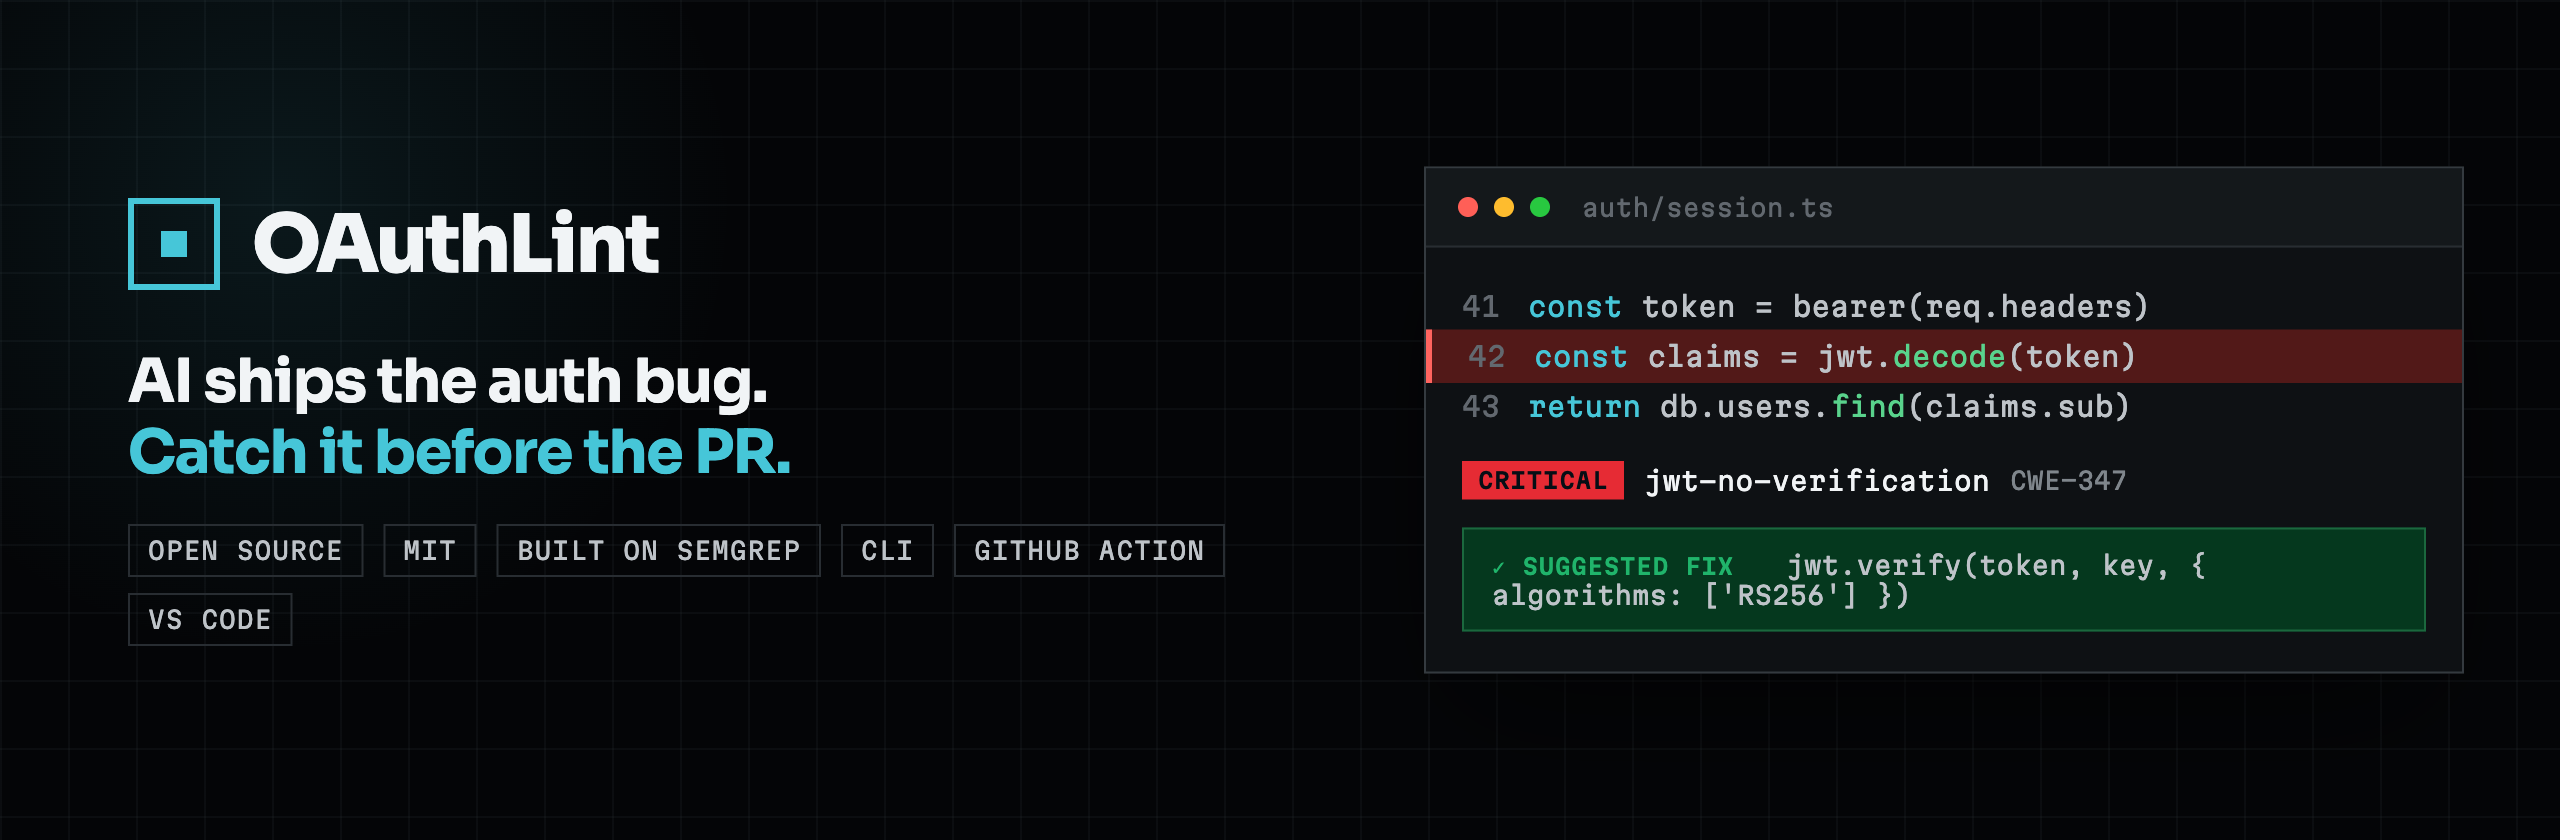
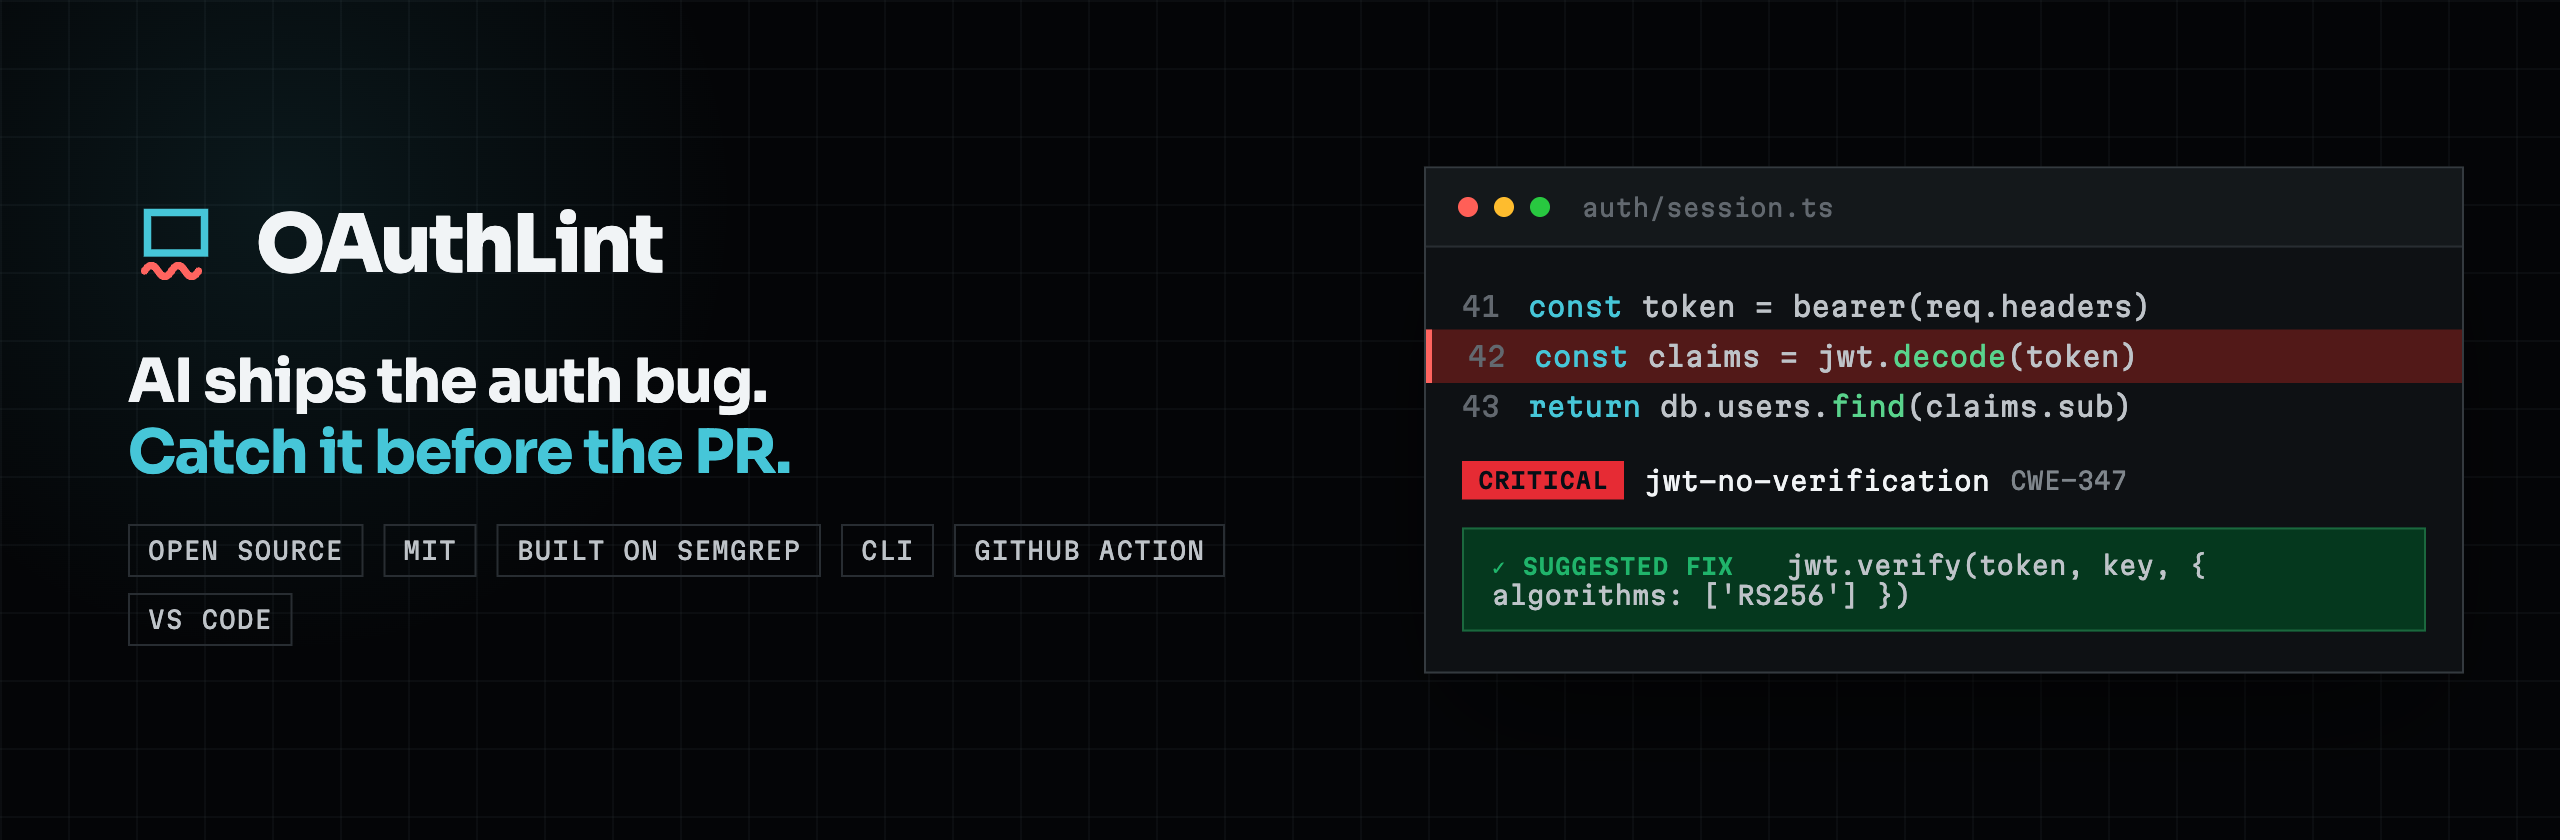
feat(brand): adopt the "lint squiggle" mark everywhere (#16)
New logo direction (chosen over the viewfinder square): a token box with the red
wavy underline — the universal sign of a linter flagging code. Distinctive and
grounded in what the tool does; the red also ties to the severity language.

- New mark in the site nav + footers (SiteChrome + all captured partials), as
  inline SVG using --ol-accent + --ol-sev-critical so it flips with the theme.
- Regenerated brand assets with the squiggle: logo.svg, README banner.png,
  avatar.png (GitHub avatar), favicon.png.

Build 96 pages, 30 tests, lint clean. Mark verified in nav (dark + light).

Claude-Session: https://claude.ai/code/session_01HWcbA9Y53p4uGj5cPmmAvM

Changed region(s): [[0.0312, 0.2167, 0.25, 0.3714]]

diff --git a/site/src/html/index.html b/site/src/html/index.html
@@ -3,7 +3,7 @@
   
   <nav style="position: sticky; top: 0px; z-index: 50; display: flex; align-items: center; gap: var(--ol-space-6); padding: 0 var(--ol-space-6); height: 56px; background: color-mix(in oklch, var(--ol-canvas) 88%, transparent); backdrop-filter: blur(12px); border-bottom: 1px solid var(--ol-border);">
     <a href="/" aria-label="OAuthLint home" style="display: flex; align-items: center; gap: 10px; text-decoration: none; color: var(--ol-text);">
-      <div style="width: 24px; height: 24px; border: 1.5px solid var(--ol-accent); display: grid; place-items: center;"><div style="width: 6px; height: 6px; background: var(--ol-accent);"></div></div>
+      <svg width="24" height="24" viewBox="0 0 64 64" fill="none" aria-hidden="true"><rect x="13" y="11" width="38" height="27" stroke="var(--ol-accent)" stroke-width="5"/><path d="M11 50c3-5 6-5 9 0s6 5 9 0 6-5 9 0 6 5 9 0" stroke="var(--ol-sev-critical)" stroke-width="5" stroke-linecap="round"/></svg>
       <span style="font-family: var(--ol-font-display); font-weight: 700; font-size: 16px; letter-spacing: -0.02em;">OAuthLint</span>
     </a>
     <div style="flex: 1 1 0%;"></div>
@@ -462,7 +462,7 @@
     <div style="max-width: 1180px; margin: 0px auto; padding: var(--ol-space-12) var(--ol-space-6); display: flex; flex-wrap: wrap; gap: var(--ol-space-8); align-items: flex-start;">
       <div style="flex: 1 1 0%; min-width: 240px;">
         <div style="display: flex; align-items: center; gap: 10px; margin-bottom: var(--ol-space-3);">
-          <div style="width: 22px; height: 22px; border: 1.5px solid var(--ol-accent); display: grid; place-items: center;"><div style="width: 5px; height: 5px; background: var(--ol-accent);"></div></div>
+          <svg width="22" height="22" viewBox="0 0 64 64" fill="none" aria-hidden="true"><rect x="13" y="11" width="38" height="27" stroke="var(--ol-accent)" stroke-width="5"/><path d="M11 50c3-5 6-5 9 0s6 5 9 0 6-5 9 0 6 5 9 0" stroke="var(--ol-sev-critical)" stroke-width="5" stroke-linecap="round"/></svg>
           <span style="font-family: var(--ol-font-display); font-weight: 700; font-size: 16px;">OAuthLint</span>
         </div>
         <p style="font-size: var(--ol-text-body-s); color: var(--ol-text-muted); line-height: 1.6; margin: 0px; max-width: 38ch;">Catch the auth bugs AI assistants ship. Built by identity &amp; security engineers. Open source, MIT-licensed, obsessively low-noise.</p>

diff --git a/site/src/html/about.html b/site/src/html/about.html
@@ -2,7 +2,7 @@
 
   <nav style="position:sticky; top:0; z-index:50; display:flex; align-items:center; gap:var(--ol-space-6); padding:0 var(--ol-space-6); height:56px; background:color-mix(in oklch, var(--ol-canvas) 88%, transparent); backdrop-filter:blur(12px); border-bottom:1px solid var(--ol-border);">
     <a href="/" style="display:flex; align-items:center; gap:10px; text-decoration:none; color:var(--ol-text);" aria-label="OAuthLint home">
-      <div style="width:24px; height:24px; border:1.5px solid var(--ol-accent); display:grid; place-items:center;"><div style="width:6px; height:6px; background:var(--ol-accent);"></div></div>
+      <svg width="24" height="24" viewBox="0 0 64 64" fill="none" aria-hidden="true"><rect x="13" y="11" width="38" height="27" stroke="var(--ol-accent)" stroke-width="5"/><path d="M11 50c3-5 6-5 9 0s6 5 9 0 6-5 9 0 6 5 9 0" stroke="var(--ol-sev-critical)" stroke-width="5" stroke-linecap="round"/></svg>
       <span style="font-family:var(--ol-font-display); font-weight:700; font-size: 16px; letter-spacing:-0.02em;">OAuthLint</span>
     </a>
     <div style="flex:1;"></div>

diff --git a/site/src/html/docs.html b/site/src/html/docs.html
@@ -2,7 +2,7 @@
 
   <nav style="position: sticky; top: 0px; z-index: 50; display: flex; align-items: center; gap: var(--ol-space-6); padding: 0 var(--ol-space-6); height: 56px; background: color-mix(in oklch, var(--ol-canvas) 88%, transparent); backdrop-filter: blur(12px); border-bottom: 1px solid var(--ol-border);">
     <a href="/" aria-label="OAuthLint home" style="display: flex; align-items: center; gap: 10px; text-decoration: none; color: var(--ol-text);">
-      <div style="width: 24px; height: 24px; border: 1.5px solid var(--ol-accent); display: grid; place-items: center;"><div style="width: 6px; height: 6px; background: var(--ol-accent);"></div></div>
+      <svg width="24" height="24" viewBox="0 0 64 64" fill="none" aria-hidden="true"><rect x="13" y="11" width="38" height="27" stroke="var(--ol-accent)" stroke-width="5"/><path d="M11 50c3-5 6-5 9 0s6 5 9 0 6-5 9 0 6 5 9 0" stroke="var(--ol-sev-critical)" stroke-width="5" stroke-linecap="round"/></svg>
       <span style="font-family: var(--ol-font-display); font-weight: 700; font-size: 16px; letter-spacing: -0.02em;">OAuthLint</span>
     </a>
     <div style="flex: 1 1 0%;"></div>

diff --git a/site/src/html/notfound.html b/site/src/html/notfound.html
@@ -1,7 +1,7 @@
 <div style="min-height:100vh; display:flex; flex-direction:column; background-color:var(--ol-canvas); background-image:linear-gradient(to right, var(--ol-grid-line) 1px, transparent 1px), linear-gradient(to bottom, var(--ol-grid-line) 1px, transparent 1px); background-size:32px 32px;">
   <nav style="display:flex; align-items:center; gap:var(--ol-space-6); padding:0 var(--ol-space-6); height:56px; border-bottom:1px solid var(--ol-border);">
     <a href="/" style="display:flex; align-items:center; gap:10px; text-decoration:none; color:var(--ol-text);" aria-label="OAuthLint home">
-      <div style="width:24px; height:24px; border:1.5px solid var(--ol-accent); display:grid; place-items:center;"><div style="width:6px; height:6px; background:var(--ol-accent);"></div></div>
+      <svg width="24" height="24" viewBox="0 0 64 64" fill="none" aria-hidden="true"><rect x="13" y="11" width="38" height="27" stroke="var(--ol-accent)" stroke-width="5"/><path d="M11 50c3-5 6-5 9 0s6 5 9 0 6-5 9 0 6 5 9 0" stroke="var(--ol-sev-critical)" stroke-width="5" stroke-linecap="round"/></svg>
       <span style="font-family:var(--ol-font-display); font-weight:700; font-size: 16px; letter-spacing:-0.02em;">OAuthLint</span>
     </a>
     <div style="flex:1;"></div>